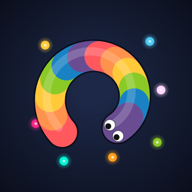
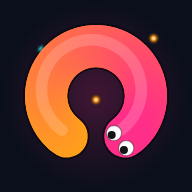
Rebrand with the Hot Sauce gradient instead of the rainbow (v1.8.0) (#61)
* Rebrand with the Hot Sauce gradient instead of the rainbow (v1.8.0)

- Brand tokens in style.css: the "feast" wordmark and every primary
  button (Play, Play again, Resume, Back, Play here, update Reload) use
  the pink-to-orange Hot Sauce gradient with dark text.
- New app icons, Apple touch icon and favicon: the curled worm in the
  brand gradient on navy, inside the maskable safe zone, same file names.
  They are drawn by tools/make-icons.js (headless Chrome via the test
  helper); tools/ is exempt from the release bump.
- The browser theme colour stays arena navy.

Includes the OpenSpec change rebrand-hot-sauce.

Closes #59

* Mark release task done

---------

diff --git a/tools/make-icons.js b/tools/make-icons.js
@@ -1,0 +1,97 @@
+#!/usr/bin/env node
+// Draws the app icons in the Hot Sauce brand colours (#59) and writes them to icons/.
+// Usage: node tools/make-icons.js   (needs Google Chrome; set CHROME_PATH if it isn't found)
+// Not part of the game: the release check ignores tools/. Commit the PNGs it writes.
+const fs = require('node:fs');
+const path = require('node:path');
+const { launch, REPO } = require('../tests/helpers/browser');
+
+// [file, size, with food dots]. The 512 icon is also the maskable one (manifest.webmanifest).
+const ICONS = [['icon-512.png', 512, true], ['icon-192.png', 192, true], ['apple-touch-icon.png', 180, true], ['favicon-64.png', 64, false]];
+
+// Runs in the browser. The curled worm stays inside the maskable safe zone: the centred
+// circle of 80% of the width (curl radius + body radius + outline <= 0.40 of the size).
+function draw(size, detailed) {
+  const c = document.createElement('canvas');
+  c.width = c.height = size;
+  const g = c.getContext('2d');
+  const TAU = Math.PI * 2, PINK = '#ff2e88', ORANGE = '#ff9f1c';
+  g.fillStyle = '#0b0f1c';
+  g.fillRect(0, 0, size, size);
+  const glow = g.createRadialGradient(size / 2, size / 2, 0, size / 2, size / 2, size * 0.48);
+  glow.addColorStop(0, 'rgba(255, 46, 136, 0.22)');
+  glow.addColorStop(1, 'rgba(255, 46, 136, 0)');
+  g.fillStyle = glow;
+  g.fillRect(0, 0, size, size);
+  if (detailed) {
+    for (const [x, y, col] of [[0.5, 0.52, ORANGE], [0.36, 0.62, PINK], [0.63, 0.66, '#ffd166'], [0.22, 0.26, '#2de2e6'], [0.8, 0.2, ORANGE]]) {
+      const dot = g.createRadialGradient(x * size, y * size, 0, x * size, y * size, size * 0.035);
+      dot.addColorStop(0, '#ffffff');
+      dot.addColorStop(0.3, col);
+      dot.addColorStop(1, 'rgba(0,0,0,0)');
+      g.fillStyle = dot;
+      g.beginPath();
+      g.arc(x * size, y * size, size * 0.035, 0, TAU);
+      g.fill();
+    }
+  }
+  // A C-shaped curl open at the bottom: tail at lower left, head at lower right.
+  const R = size * (detailed ? 0.26 : 0.24), r = size * (detailed ? 0.11 : 0.135), n = 48, P = [];
+  for (let i = 0; i < n; i++) {
+    const a = 2.3 * Math.PI - 1.6 * Math.PI * (i / (n - 1));
+    P.push([size / 2 + Math.cos(a) * R, size / 2 + Math.sin(a) * R]);
+  }
+  const rgb = (h) => [1, 3, 5].map((k) => parseInt(h.slice(k, k + 2), 16));
+  const mix = (k) => { const a = rgb(PINK), b = rgb(ORANGE); return `rgb(${a.map((v, j) => Math.round(v + (b[j] - v) * k)).join(',')})`; };
+  const trace = () => { g.beginPath(); g.moveTo(...P[n - 1]); for (let i = n - 2; i >= 0; i--) g.lineTo(...P[i]); };
+  g.lineCap = 'round';
+  g.lineJoin = 'round';
+  g.strokeStyle = 'rgba(0, 0, 0, 0.5)';
+  g.lineWidth = 2 * r + size * (detailed ? 0.02 : 0.04);
+  trace();
+  g.stroke();
+  g.lineWidth = 2 * r;
+  for (let i = n - 2; i >= 0; i--) { // tail to head, pink head fading to an orange tail
+    g.strokeStyle = mix(i / (n - 2));
+    g.beginPath();
+    g.moveTo(...P[i + 1]);
+    g.lineTo(...P[i]);
+    g.stroke();
+  }
+  g.save();
+  g.translate(-r * 0.22, -r * 0.3);
+  g.strokeStyle = 'rgba(255, 255, 255, 0.18)';
+  g.lineWidth = r * 0.55;
+  trace();
+  g.stroke();
+  g.restore();
+  const [hx, hy] = P[0], ang = Math.atan2(hy - P[1][1], hx - P[1][0]), ex = Math.cos(ang), ey = Math.sin(ang);
+  for (const side of [-1, 1]) {
+    const cx = hx + ex * r * 0.32 - ey * side * r * 0.46, cy = hy + ey * r * 0.32 + ex * side * r * 0.46;
+    g.beginPath();
+    g.arc(cx, cy, r * 0.36, 0, TAU);
+    g.fillStyle = '#ffffff';
+    g.fill();
+    g.lineWidth = Math.max(1, r * 0.06);
+    g.strokeStyle = 'rgba(0, 0, 0, 0.35)';
+    g.stroke();
+    g.beginPath();
+    g.arc(cx + ex * r * 0.14, cy + ey * r * 0.14, r * 0.19, 0, TAU);
+    g.fillStyle = '#141414';
+    g.fill();
+  }
+  return c.toDataURL('image/png');
+}
+
+(async () => {
+  const page = await launch();
+  try {
+    for (const [file, size, detailed] of ICONS) {
+      const url = await page.eval(`(${draw})(${size}, ${detailed})`);
+      fs.writeFileSync(path.join(REPO, 'icons', file), Buffer.from(url.split(',')[1], 'base64'));
+      console.log(`icons/${file} (${size}x${size})`);
+    }
+  } finally {
+    await page.close();
+  }
+})().catch((err) => { console.error(err); process.exit(1); });

diff --git a/style.css b/style.css
@@ -1,4 +1,12 @@
 * { box-sizing: border-box; }
+/* Brand (#59): the Hot Sauce gradient, for the wordmark and primary buttons. */
+:root {
+  --brand-a: #ff2e88;
+  --brand-b: #ff9f1c;
+  --brand: linear-gradient(90deg, var(--brand-a), var(--brand-b));
+  --brand-ink: #1a0612;    /* text on the gradient (about 5.3:1 on the pink end) */
+  --brand-shadow: #a3134f; /* the pressed 3D edge */
+}
 html, body {
   margin: 0;
   height: 100%;
@@ -151,7 +159,7 @@ button.ghost.danger { color: #ff8fa3; border-color: rgba(255,90,120,.35); }
   .buttons { flex-direction: column; }
 }
 h1 { margin: 0; font-size: 44px; font-weight: 900; letter-spacing: -.02em; }
-h1 span { background: linear-gradient(90deg, #ff595e, #ffca3a, #8ac926, #4cc9f0); -webkit-background-clip: text; background-clip: text; color: transparent; }
+h1 span { background: var(--brand); -webkit-background-clip: text; background-clip: text; color: transparent; }
 h2 { margin: 0 0 14px; font-size: 26px; }
 .tag { margin: 4px 0 18px; opacity: .65; }
 .label { text-align: left; font-size: 12px; text-transform: uppercase; letter-spacing: .1em; opacity: .65; margin: 14px 0 6px; }
@@ -184,11 +192,11 @@ input[type=range] { width: 100%; accent-color: #4cc9f0; }
 
 button.primary, button.ghost {
   width: 100%; margin-top: 18px; padding: 14px; font: inherit; font-size: 19px; font-weight: 800; cursor: pointer;
-  border: 0; border-radius: 14px; color: #10142a;
-  background: linear-gradient(90deg, #8ac926, #2ec4b6);
-  box-shadow: 0 6px 0 #1b7f6c; transition: transform .08s, box-shadow .08s;
+  border: 0; border-radius: 14px; color: var(--brand-ink);
+  background: var(--brand);
+  box-shadow: 0 6px 0 var(--brand-shadow); transition: transform .08s, box-shadow .08s;
 }
-button.primary:active { transform: translateY(4px); box-shadow: 0 2px 0 #1b7f6c; }
+button.primary:active { transform: translateY(4px); box-shadow: 0 2px 0 var(--brand-shadow); }
 button.ghost { margin-top: 10px; background: transparent; color: #cfd6f5; box-shadow: none; font-size: 15px; font-weight: 600; border: 1px solid rgba(255,255,255,.15); }
 
 .help { margin-top: 16px; font-size: 12.5px; opacity: .65; line-height: 1.9; }
@@ -212,7 +220,7 @@ kbd {
 #updateBanner button {
   font: inherit; cursor: pointer; border: 0; border-radius: 999px; padding: 7px 14px;
 }
-#updateReload { color: #10142a; background: linear-gradient(90deg, #8ac926, #2ec4b6); }
+#updateReload { color: var(--brand-ink); background: var(--brand); }
 #updateDismiss { color: #cfd6f5; background: transparent; padding: 7px 10px !important; }
 
 #best, #dBest { margin-top: 10px; font-size: 13px; color: #ffd60a; min-height: 1em; }

diff --git a/tests/browser/brand.test.js b/tests/browser/brand.test.js
@@ -1,0 +1,33 @@
+// Hot Sauce branding (#59). Run with `node --test "tests/**/*.test.js"`.
+const test = require('node:test');
+const assert = require('node:assert/strict');
+const fs = require('node:fs');
+const path = require('node:path');
+const { launch, gameUrl, REPO } = require('../helpers/browser');
+
+const PINK = 'rgb(255, 46, 136)', ORANGE = 'rgb(255, 159, 28)';
+const OLD = ['rgb(255, 89, 94)', 'rgb(255, 202, 58)', 'rgb(138, 201, 38)', 'rgb(76, 201, 240)', 'rgb(46, 196, 182)'];
+
+test('the wordmark and primary buttons use the brand gradient, not the rainbow (#59)', async (t) => {
+  let page;
+  t.after(() => page && page.close());
+  page = await launch();
+  await page.goto(gameUrl());
+  for (const sel of ['h1 span', '#play', '#again', '#resume', '#closeStats', '#playHere', '#updateReload']) {
+    const bg = await page.eval(`getComputedStyle(document.querySelector(${JSON.stringify(sel)})).backgroundImage`);
+    assert.ok(bg.includes(PINK) && bg.includes(ORANGE), `${sel} uses the brand gradient: ${bg}`);
+    assert.ok(OLD.every((c) => !bg.includes(c)), `${sel} has none of the old colours: ${bg}`);
+  }
+  assert.equal(await page.eval(`document.querySelector('meta[name="theme-color"]').content`), '#0b0f1c', 'status bar stays navy');
+  const manifest = JSON.parse(fs.readFileSync(path.join(REPO, 'manifest.webmanifest'), 'utf8'));
+  assert.equal(manifest.theme_color, '#0b0f1c');
+});
+
+test('the app icons exist at their declared sizes (#59)', () => {
+  // Width and height sit at bytes 16-23 of a PNG's IHDR chunk.
+  for (const [file, size] of [['icon-512.png', 512], ['icon-192.png', 192], ['apple-touch-icon.png', 180], ['favicon-64.png', 64]]) {
+    const png = fs.readFileSync(path.join(REPO, 'icons', file));
+    assert.equal(png.toString('ascii', 1, 4), 'PNG', `${file} is a PNG`);
+    assert.deepEqual([png.readUInt32BE(16), png.readUInt32BE(20)], [size, size], `${file} is ${size}x${size}`);
+  }
+});

diff --git a/tests/release.test.js b/tests/release.test.js
@@ -40,7 +40,8 @@ test('check-version.sh accepts higher versions and rejects lower or reused ones'
     git('checkout', '-q', 'pr'); git('reset', '-q', '--hard', 'main');
     write(file, `changed ${v}\n`);
     if (v) version(v);
-    git('commit', '-qam', `try ${v}`);
+    git('add', '-A');
+    git('commit', '-qm', `try ${v}`);
     return check();
   };
   const ok = (r, what) => assert.equal(r.status, 0, `${what}: ${r.stdout}${r.stderr}`);
@@ -53,4 +54,6 @@ test('check-version.sh accepts higher versions and rejects lower or reused ones'
   rejected(attempt(null), 'no bump', /did not/);
   rejected(attempt('1.5.2'), 'reused tag', /already released/);
   ok(attempt(null, 'README.md'), 'docs-only change without a bump');
+  fs.mkdirSync(path.join(repo, 'tools'), { recursive: true });
+  ok(attempt(null, 'tools/make-icons.js'), 'tools-only change without a bump (#59)');
 });

diff --git a/sw.js b/sw.js
@@ -1,7 +1,7 @@
 /* Wigglefeast service worker: offline play and versioned releases.
    Bump VERSION for every release that changes a shipped file (a PR check enforces this).
    Never reuse a version; roll back by publishing the old code under a higher version. */
-const VERSION = '1.7.0';
+const VERSION = '1.8.0';
 const CACHE = `wigglefeast-${VERSION}`;
 const FILES = [
   'index.html',

diff --git a/openspec/changes/rebrand-hot-sauce/design.md b/openspec/changes/rebrand-hot-sauce/design.md
@@ -1,0 +1,59 @@
+# Design
+
+## Context
+
+- **Current styles** (`style.css`):
+  - the wordmark gradient is `linear-gradient(90deg, #ff595e, #ffca3a, #8ac926, #4cc9f0)`
+  - `button.primary` and `#updateReload` share `linear-gradient(90deg, #8ac926, #2ec4b6)` with dark text `#10142a` and a 3D shadow `#1b7f6c`
+  - there are no colour tokens; colours are literals
+- **Icons** (`icons/`): `icon-192.png`, `icon-512.png` (also declared maskable in the manifest), `apple-touch-icon.png` (180 px) and `favicon-64.png`. They were added by hand in the first commit; there's no script.
+- **Manifest and theme:** `manifest.webmanifest` and `index.html` set the theme and background colour to `#0b0f1c`.
+- **Test helper:** `tests/helpers/browser.js` can already launch headless Chrome and evaluate code in a page.
+- **Release check:** `check-version.sh` exempts `README.md`, `LICENSE`, `.gitignore`, `openspec/`, `.github/`, `.claude/` and `tests/` from the version bump.
+
+## Goals / Non-Goals
+
+**Goals:**
+- One place to change the brand colours.
+- Icons reproducible from the repo, so a later tweak doesn't need a design tool.
+
+**Non-Goals:**
+- Theming every accent. Cyan stays the secondary accent.
+
+## Decisions
+
+### 1. Brand tokens in `style.css`, used by the wordmark and primary buttons
+- **Tokens:** add a `:root` block with `--brand-a: #ff2e88`, `--brand-b: #ff9f1c`, `--brand-ink: #1a0612` (dark text on the gradient) and `--brand-shadow: #a3134f` (the pressed 3D edge).
+- **Usage:** `h1 span`, `button.primary` and `#updateReload` use `linear-gradient(90deg, var(--brand-a), var(--brand-b))`, with dark text.
+- **Contrast:** `#1a0612` on `#ff2e88` is about 5.3:1, and higher on the orange end, which is enough for the bold button labels.
+- **Play here** already uses `button.primary`, so it follows automatically.
+
+*Alternative:* white text on the gradient. Rejected: about 3.4:1 on the pink end.
+
+### 2. Icons drawn by a script with headless Chrome: `tools/make-icons.js`
+- **What it does:** the script launches Chrome through `tests/helpers/browser.js` and draws each icon on a canvas, with the same proportions as the current icon:
+  - the navy arena
+  - a soft pink glow behind the worm
+  - a curl of radius 0.27 × size, worm radius 0.11 × size, in the brand gradient from head to tail, with a dark outline, gloss and eyes
+  - a few food dots in the brand colours
+- **Output:** it writes the PNGs with `canvas.toDataURL`, so no image library is needed.
+- **Safe zone:** the curl plus the body reaches 0.38 × size from the centre, inside the 0.40 maskable safe zone.
+- **Favicon:** the 64-pixel favicon skips the food dots and uses a thicker outline, so it reads at small size.
+- **Why `tools/`:** it isn't part of the game, so `check-version.sh` adds `tools/` to its exempt paths (the rule and its test are updated). The script reuses the test helper rather than duplicating Chrome setup.
+
+*Alternatives:*
+- Hand-drawn SVG icons: rejected, because the manifest needs PNGs, and converting SVG to PNG without dependencies isn't possible here.
+- Committing images made in an external tool: rejected, because they can't be reproduced.
+
+### 3. Theme colour unchanged
+The status bar stays `#0b0f1c`, so it blends with the arena. A pink bar over the game would be loud and would clash with the dark HUD.
+
+## Risks / Trade-offs
+
+- **iOS home-screen icons don't update** until the app is removed and added again. → This is a platform limit, noted in the README; the next manual check uses a fresh install.
+- **Chrome renders the canvas, so icons may differ by a pixel** between machines or versions. → Icons are generated once and committed; the script exists to make a deliberate regeneration possible, not to run in CI.
+- **Brand pink and orange are close to some food colours** (the `#f72585` and `#ff9f1c` food). → Food is small, glowing dots; the brand appears in the UI, not in the arena. No conflict in play.
+
+## Migration Plan
+
+No data changes. Bump `VERSION` (minor) so installed copies pick up the new styles and icons. To roll back, publish the previous code under a higher version.

diff --git a/openspec/changes/rebrand-hot-sauce/proposal.md b/openspec/changes/rebrand-hot-sauce/proposal.md
@@ -1,0 +1,38 @@
+# Proposal
+
+## Why
+
+The rainbow is the game's only identity, and it doesn't fit (tamsler/wigglefeast#59). It's in the logo's "feast" gradient, the app icon worm and a skin, and it uses the same hues as the food, so nothing reads as *Wigglefeast*. The user reviewed three directions in the Skin Lab and approved **Hot Sauce**: one gradient from pink `#ff2e88` to orange `#ff9f1c`. It's warm, suggests food, and stands out on the navy arena.
+
+## What Changes
+
+- **Logo:** the menu wordmark's "feast" uses the Hot Sauce gradient instead of the rainbow.
+- **Buttons:** the primary buttons (Play, Play again, Resume, Back, Play here, and Reload on the update banner) use the Hot Sauce gradient, with matching dark text and a pressed shadow.
+- **Icons:** the app icons (192 and 512 px, maskable), the Apple touch icon and the favicon are redrawn as the curled worm in the Hot Sauce gradient on the navy arena. The file names stay the same.
+- **Icon script:** the icons are generated by a script in the repo, so they can be regenerated later. The script lives in `tools/`, which the release check treats as not shipped.
+- **Unchanged:** the browser theme colour (status bar) stays arena navy.
+
+### Out of scope
+
+- Skins, including hiding Rainbow, which is handled by the skin change (#58).
+- Secondary UI accents (the cyan focus ring, range slider, difficulty buttons, BOOST badge). They stay as they are; cyan works as a complement to the brand.
+- A new typeface or wordmark shape, a splash screen, or store and social artwork.
+
+## Capabilities
+
+### New Capabilities
+- `branding`: the game's visual identity. The brand gradient, where it's used, and the app icon.
+
+### Modified Capabilities
+<!-- none: offline-app's icon requirement (sizes, maskable) is unchanged; only the artwork changes -->
+
+## Impact
+
+- `style.css`: brand colour tokens; the wordmark and primary button styles.
+- `icons/*.png`: regenerated, with the same names and sizes.
+- `tools/make-icons.js` (new, not shipped): draws the icons in headless Chrome using the test helper and writes the PNGs.
+- `.github/scripts/check-version.sh`: `tools/` joins the paths that don't need a release bump.
+- `README.md`: how to regenerate the icons.
+- `tests/`: style checks for the brand colours, icon dimensions, and the release-check exemption.
+- `sw.js`: `VERSION` bump. `FILES` is unchanged.
+- **Installed copies:** Chrome and Android refresh the icon when the update installs. iOS keeps the old home-screen icon until the app is removed and added again, which is a platform limit.

diff --git a/README.md b/README.md
@@ -49,13 +49,17 @@ Bot count (5–60) and difficulty (easy/normal/hard) are set in the menu. The ar
 
 `main` is protected: every change lands through a pull request, and the **Tests** and **Release version bumped** checks (the *Tests* and *Version check* workflows) must pass before it can merge. Merging to `main` deploys to GitHub Pages, but installed copies only pick up a release whose version changed:
 
-1. Bump `VERSION` at the top of `sw.js` (e.g. `'1.1.0'` → `'1.2.0'`) in the same PR as the change. The **Version check** on the PR fails with "Bump VERSION in sw.js" if you change a game file without doing this. Changes to `README.md`, `LICENSE`, `openspec/`, `.github/`, `.claude/` and `tests/` don't need a bump.
+1. Bump `VERSION` at the top of `sw.js` (e.g. `'1.1.0'` → `'1.2.0'`) in the same PR as the change. The **Version check** on the PR fails with "Bump VERSION in sw.js" if you change a game file without doing this. Changes to `README.md`, `LICENSE`, `openspec/`, `.github/`, `.claude/`, `tests/` and `tools/` don't need a bump.
 2. Merge. The **Tag release** workflow tags the commit `v<VERSION>` and publishes a [GitHub Release](https://github.com/tamsler/wigglefeast/releases) with notes generated from the merged PRs (versions with a suffix like `1.2.0-beta.1` are marked pre-release). Players get the new release downloaded in the background and see an **Update available → Reload** banner (never mid-run). Ignoring it is fine; it takes over on the next launch.
 3. Never reuse or lower a version: the PR check rejects a version that already has a tag or isn't higher than the one on `main` (SemVer order, so `1.6.0-beta.1` < `1.6.0`). To roll back, publish the old code under a **higher** version.
 
 When a release adds a new file the game loads, add it to `FILES` in `sw.js` too, or it won't work offline.
 
 You can run the checks locally: `.github/scripts/check-version.sh main` and `DRY_RUN=1 .github/scripts/release-tag.sh`.
+
+### App icons
+
+The icons in `icons/` (192 and 512 px, Apple touch icon, favicon) are drawn in the brand colours by a script: run `node tools/make-icons.js` (it needs Google Chrome, like the tests) and commit the PNGs it writes, with a `VERSION` bump. Keep the file names: the manifest and service worker refer to them. Chrome and Android pick up a new icon with the update; iOS keeps the old home-screen icon until the app is removed and added again.
 
 ## Tests
 

diff --git a/openspec/changes/rebrand-hot-sauce/tasks.md b/openspec/changes/rebrand-hot-sauce/tasks.md
@@ -1,0 +1,21 @@
+# Tasks
+
+## 1. Brand colours in the UI
+
+- [x] 1.1 Add the brand tokens to `style.css` and use them for the wordmark "feast", `button.primary` and `#updateReload` (dark text, brand pressed shadow); verify with a browser test that the wordmark's and the Play button's computed `background-image` contain `rgb(255, 46, 136)` and `rgb(255, 159, 28)` and none of the old rainbow colours, and visually with a headless screenshot of the menu at desktop and phone sizes
+
+## 2. App icons
+
+- [x] 2.1 Add `tools/make-icons.js` (headless Chrome via `tests/helpers/browser.js`, canvas drawing as in the design) and exempt `tools/` in `.github/scripts/check-version.sh`; verify the release test covers a `tools/`-only change passing without a bump
+- [x] 2.2 Generate and commit `icons/icon-192.png`, `icons/icon-512.png`, `icons/apple-touch-icon.png` and `icons/favicon-64.png`; verify with a test that each PNG has its expected size (from the PNG header), and visually that the worm stays inside the 80% maskable circle and reads at favicon size
+- [x] 2.3 Document regenerating the icons in the README (and that iOS keeps an old home-screen icon until it is re-added); verify the documented command runs
+
+## 3. Release and integration
+
+- [x] 3.1 Bump `VERSION` in `sw.js` to the next minor version (`FILES` unchanged); run `node --test "tests/**/*.test.js"` and verify every test passes and `.github/scripts/check-version.sh main` passes after committing
+- [ ] 3.2 Manual check: the menu, buttons and update banner in the new colours on desktop and a phone, and a fresh install showing the new icon (Chrome/Android, plus iOS if available); verify by noting the result in the PR
+
+## Workflow follow-up
+
+- Open a PR that closes tamsler/wigglefeast#59, run the `pr-reviewer` agent, address its findings, and merge once checks pass.
+- Archive the change with `/opsx:archive` after merge.

diff --git a/openspec/changes/rebrand-hot-sauce/specs/branding/spec.md b/openspec/changes/rebrand-hot-sauce/specs/branding/spec.md
@@ -1,0 +1,29 @@
+# Spec Delta
+
+## Purpose
+
+The game's visual identity: the brand gradient, where it's used, and the app icon, so the game looks like one product everywhere.
+
+## ADDED Requirements
+
+### Requirement: Brand gradient
+The game's brand gradient SHALL be Hot Sauce, from pink #ff2e88 to orange #ff9f1c. The "feast" part of the menu wordmark and every primary action button (Play, Play again, Resume, Back, Play here, and the update banner's Reload) SHALL use it, with dark text. The logo SHALL NOT use a rainbow gradient. The browser theme colour SHALL stay the arena navy, #0b0f1c.
+
+#### Scenario: Main menu
+- **WHEN** the main menu shows
+- **THEN** "feast" in the wordmark is drawn in the pink-to-orange gradient, and the Play button uses the same gradient
+
+#### Scenario: Status bar
+- **WHEN** the game runs as an installed app
+- **THEN** the status bar or title bar is the arena navy
+
+### Requirement: App icon
+The installable app icons (192 and 512 px, including the maskable icon), the Apple touch icon and the favicon SHALL show the game's curled worm in the brand gradient, on the arena navy. The worm SHALL stay inside the maskable safe zone (the central circle of 80% of the icon's width), so platform icon masks never cut it. The icons SHALL be reproducible from a script in the repository.
+
+#### Scenario: Installing the app
+- **WHEN** the player installs the game or adds it to the home screen
+- **THEN** its icon is the pink-to-orange curled worm on navy, with no rainbow
+
+#### Scenario: Round icon mask
+- **WHEN** a platform crops the maskable icon to a circle
+- **THEN** the whole worm, including its eyes, is still visible
